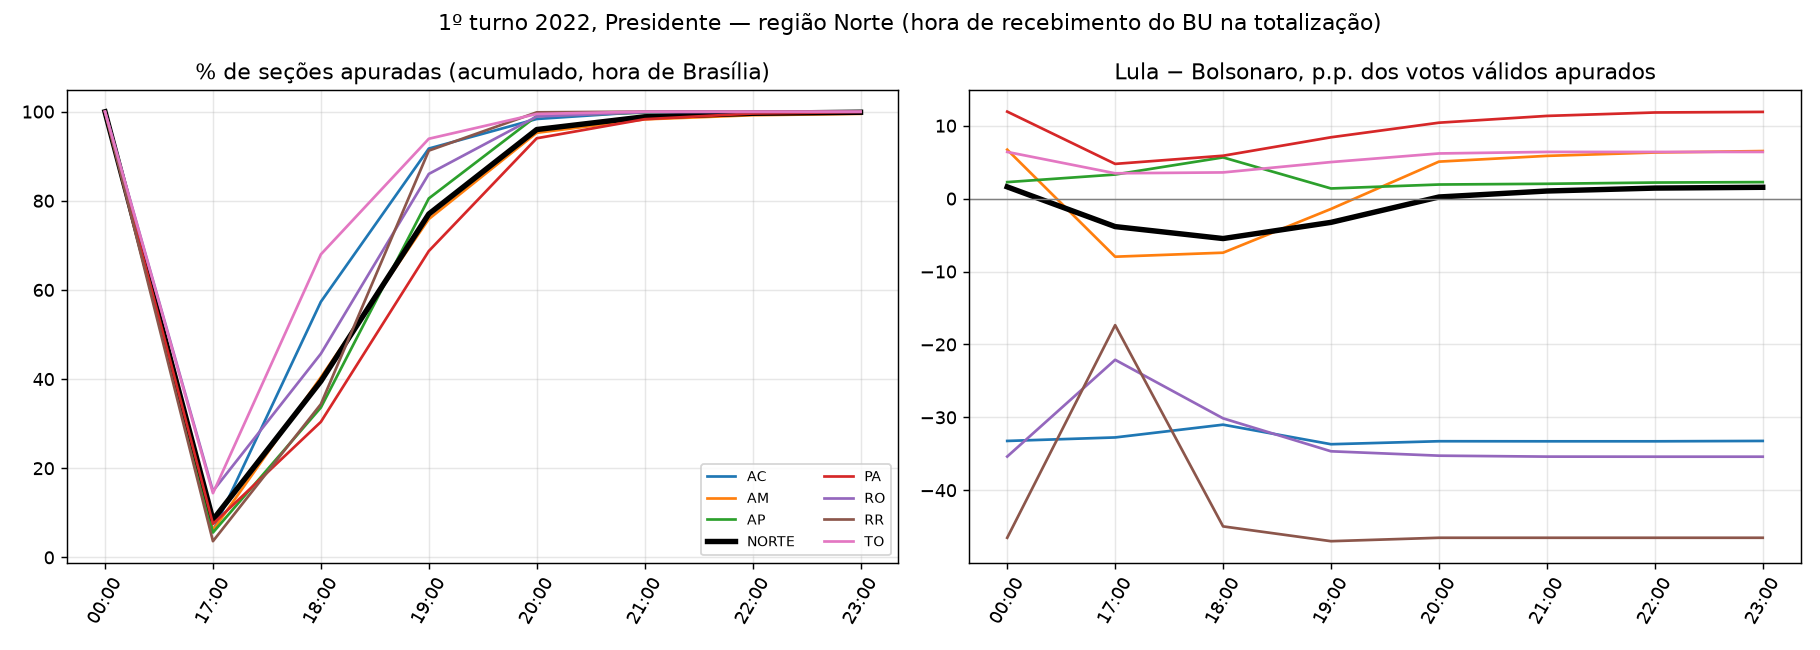
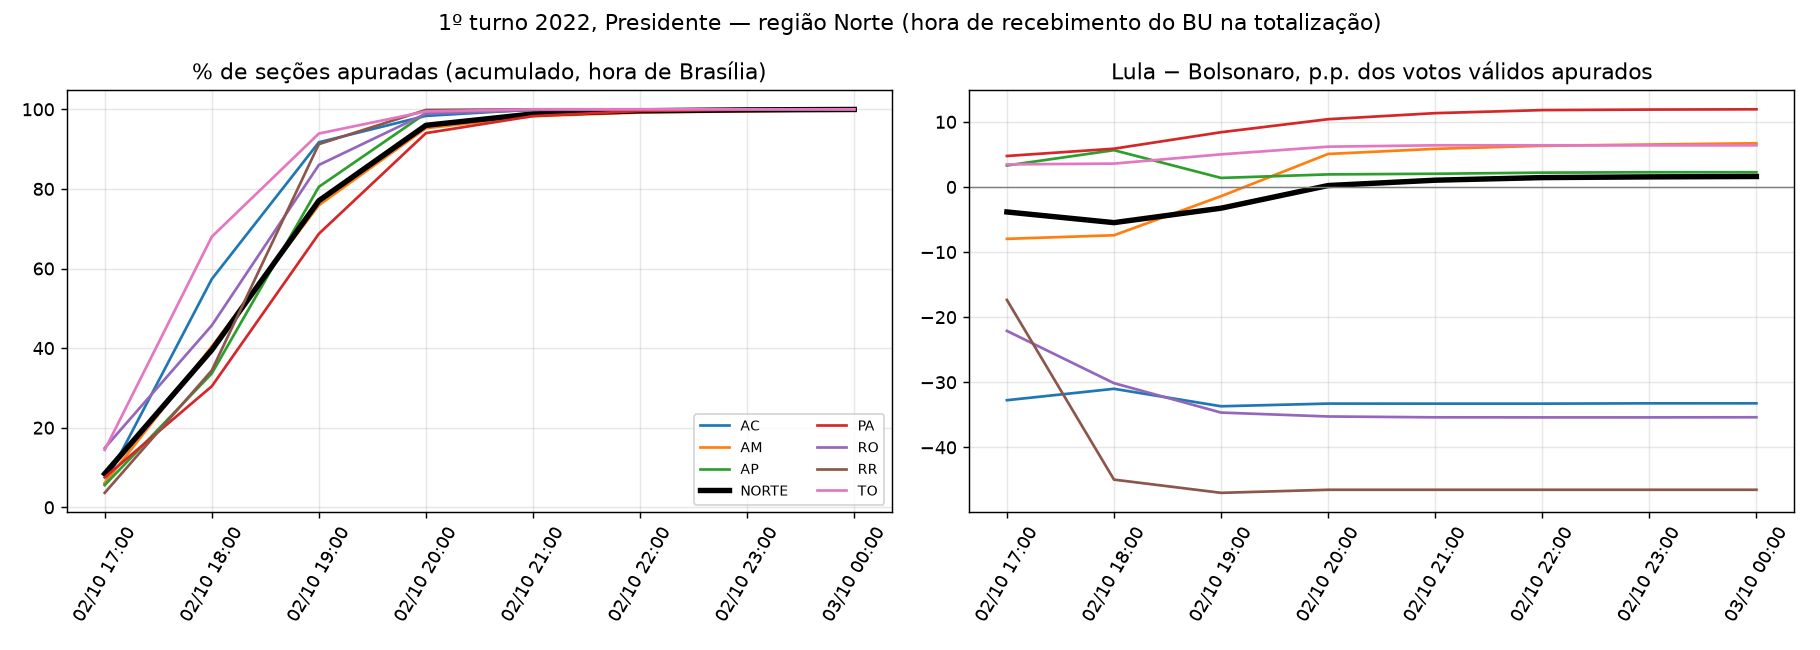
Corrige ordem do eixo de horas no gráfico
Claude-Session: https://claude.ai/code/session_01GYm5aQPjLVK7kH858b3eWL

diff --git a/apuracao_norte_2022/grafico.py b/apuracao_norte_2022/grafico.py
@@ -2,12 +2,12 @@ import pandas as pd, matplotlib
 matplotlib.use("Agg")
 import matplotlib.pyplot as plt
 d = pd.read_csv("apuracao_por_hora_norte_1t_2022.csv", parse_dates=["hora_brasilia"])
-d = d[d.hora_brasilia <= "2022-10-03 00:00"]
-d["h"] = d.hora_brasilia.dt.strftime("%H:%M")
+d = d[d.hora_brasilia <= "2022-10-03 00:00"].sort_values("hora_brasilia")
+d["h"] = d.hora_brasilia.dt.strftime("%d/%m %H:%M")
 # tabela: % de seções apuradas por estado, ao fim de cada hora
-p = d.pivot(index="h", columns="uf", values="pct_secoes")
+p = d.pivot(index="h", columns="uf", values="pct_secoes").loc[d.h.unique()]
 p.to_csv("pct_secoes_apuradas_por_hora.csv")
-dif = d.pivot(index="h", columns="uf", values="dif_lula_menos_bolsonaro_pp")
+dif = d.pivot(index="h", columns="uf", values="dif_lula_menos_bolsonaro_pp").loc[d.h.unique()]
 dif.to_csv("dif_lula_bolsonaro_por_hora.csv")
 fig, ax = plt.subplots(1, 2, figsize=(14, 5))
 for uf in p.columns:
@@ -21,5 +21,5 @@ for a in ax: a.tick_params(axis="x", rotation=60); a.grid(alpha=.3)
 ax[0].legend(ncol=2, fontsize=8)
 fig.suptitle("1º turno 2022, Presidente — região Norte (hora de recebimento do BU na totalização)")
 fig.tight_layout(); fig.savefig("apuracao_norte_por_hora.png", dpi=130)
-print(p.loc["17:00":"22:00"].round(1).to_string())
-print(dif.loc["17:00":"22:00"].to_string())
+print(p.loc[:"02/10 22:00"].round(1).to_string())
+print(dif.loc[:"02/10 22:00"].to_string())
